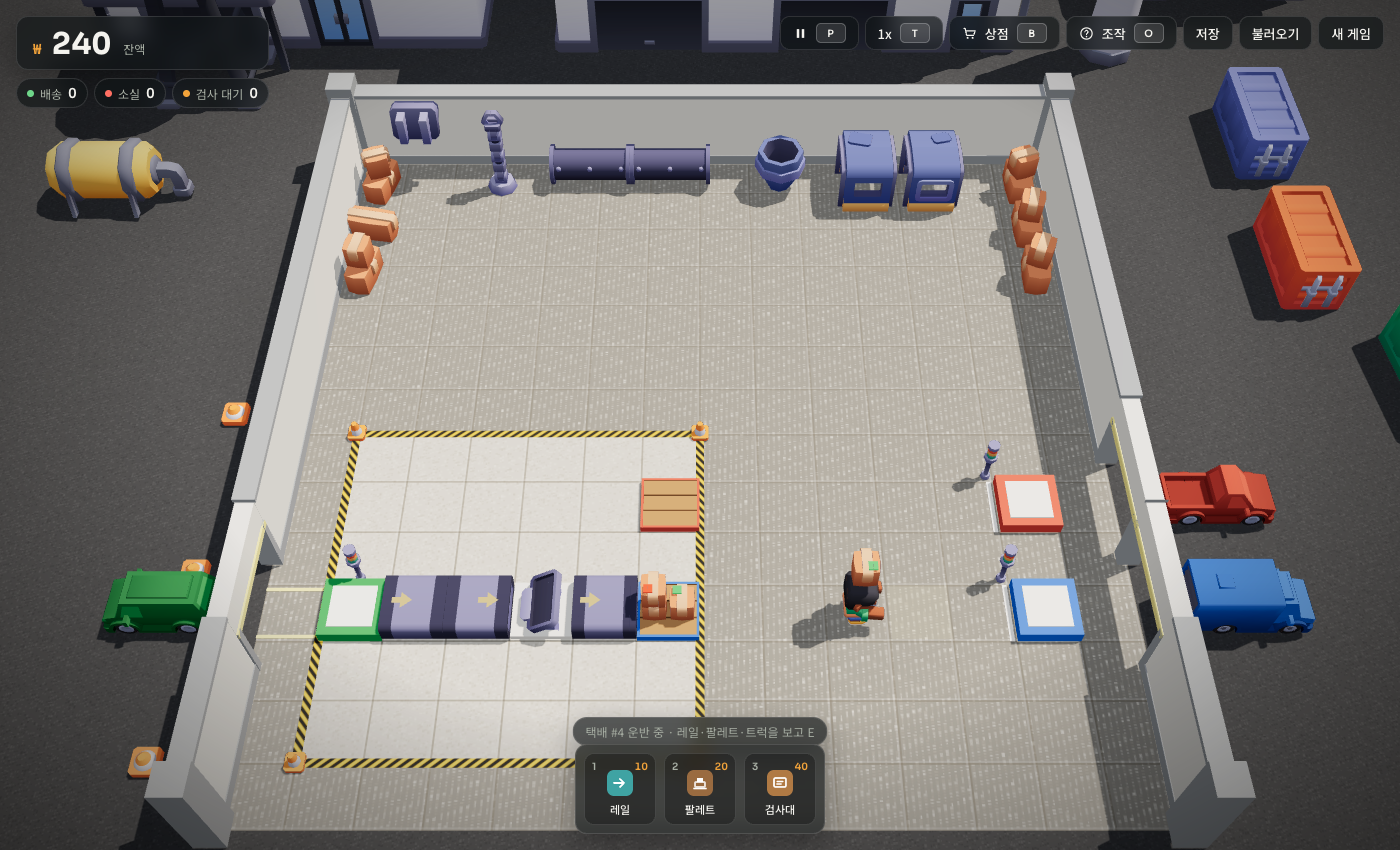
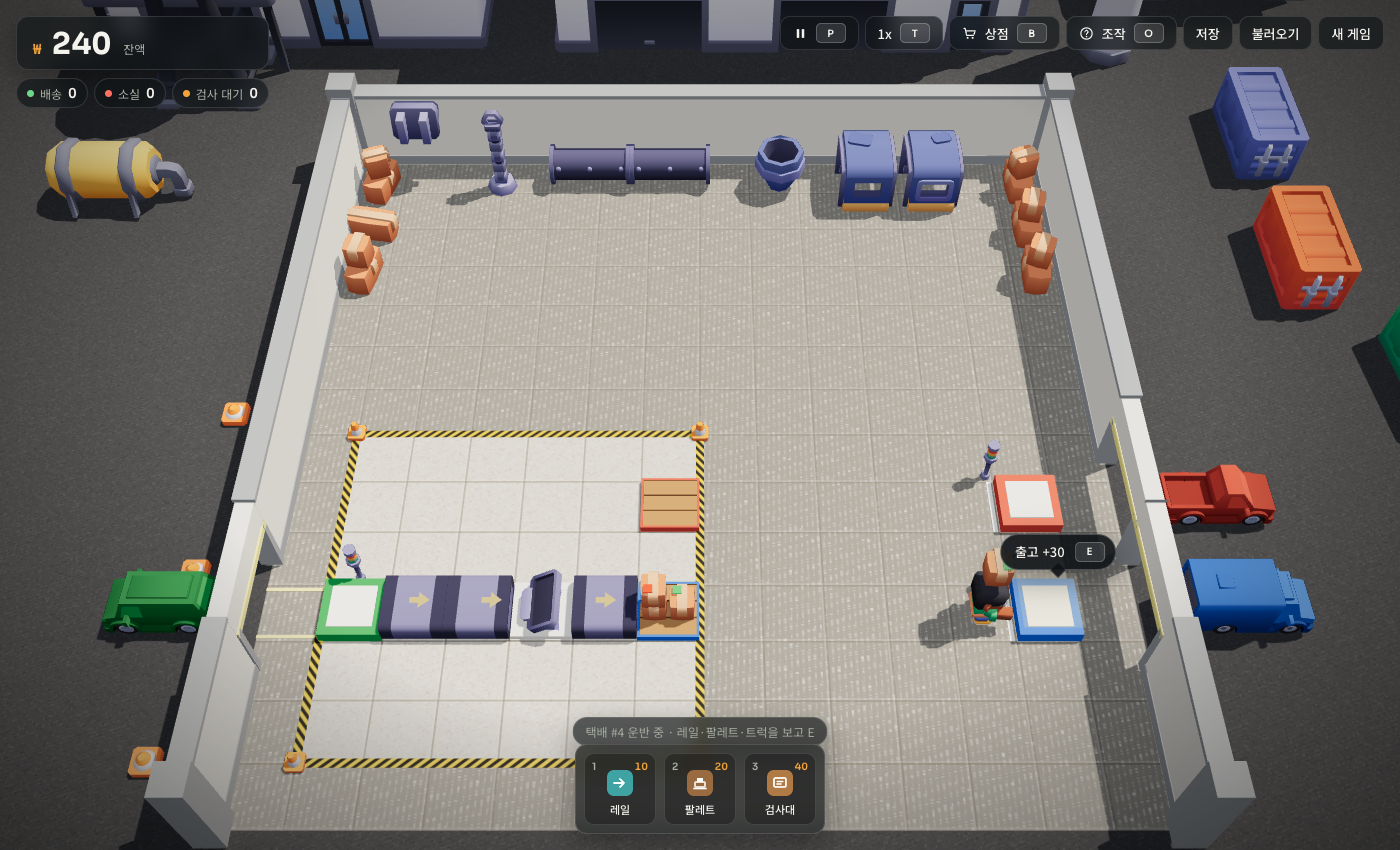
feat(prototype): show money at the point of action (price prompts, dock deltas, popups, balance flash)
scoreFor() is the single scoring rule used by deliver() and the dock prompt.
Demo worker now stands next to the outlet dock so the prompt reads 출고 +30.

Changed region(s): [[0.5529, 0.6118, 0.7986, 0.7647], [0.7679, 0.7035, 0.7986, 0.7341], [0.2764, 0.7035, 0.3071, 0.7341]]

diff --git a/docs/design/prototype/parcel-factory-3d.html b/docs/design/prototype/parcel-factory-3d.html
@@ -48,6 +48,13 @@
   .slot.on .d { display: inline-flex; background: var(--accent); color: var(--accent-fg); }
   .prompt { position: absolute; transform: translate(-50%, -100%); display: flex; gap: 10px; align-items: center; background: var(--panel-2); border: 1px solid var(--line-2); border-radius: 999px; padding: 7px 10px 7px 14px; font-size: 13px; font-weight: 500; white-space: nowrap; box-shadow: var(--shadow); }
   .prompt .pin { position: absolute; left: 50%; bottom: -7px; width: 10px; height: 10px; background: var(--panel-2); border-right: 1px solid var(--line-2); border-bottom: 1px solid var(--line-2); transform: translateX(-50%) rotate(45deg); }
+  .prompt.warn { border-color: var(--bad); color: var(--bad); }
+  .prompt.warn .pin { border-color: var(--bad); }
+  .money .val.up { animation: flashUp .4s ease-out; } .money .val.down { animation: flashDown .4s ease-out; }
+  @keyframes flashUp { from { color: var(--good); } to { color: var(--fg); } }
+  @keyframes flashDown { from { color: var(--bad); } to { color: var(--fg); } }
+  .pop { position: absolute; left: 0; top: 0; z-index: 5; pointer-events: none; font: 700 18px var(--font-num); font-variant-numeric: tabular-nums; text-shadow: 0 1px 3px rgba(0,0,0,0.85), 0 0 6px rgba(0,0,0,0.6); white-space: nowrap; will-change: transform, opacity; }
+  .pop.good { color: var(--good); } .pop.bad { color: var(--bad); }
   .status { position: absolute; left: 50%; transform: translateX(-50%); bottom: calc(104px + env(safe-area-inset-bottom, 0px)); font-size: 12px; color: var(--muted); padding: 5px 12px; border-radius: 999px; white-space: nowrap; }
   .toast { position: absolute; left: 50%; top: calc(18px + env(safe-area-inset-top, 0px)); transform: translateX(-50%); display: flex; align-items: center; gap: 10px; background: var(--panel-2); border: 1px solid var(--line-2); border-radius: 10px; padding: 9px 14px 9px 10px; font-size: 13px; box-shadow: var(--shadow); animation: drop .18s ease-out; }
   .toast .bar { width: 4px; height: 18px; border-radius: 2px; background: var(--info); }
@@ -139,7 +146,7 @@
       <div>레일 끝 <b>팔레트</b>에 택배가 최대 6개 쌓입니다. 팔레트에서 집어 동쪽 벽의 트럭까지 나르세요 — <b>정상은 파랑 출고 트럭</b>, <b>불량(거부)은 빨강 반품 트럭</b>.</div>
       <div>택배는 검사대(3)에서 E로 검사한 뒤 출고/반품하세요. 검사 없이 트럭에 넣으면 벌점입니다.</div>
       <div>검사대 위 택배는 검사 전까지 멈춥니다. 잠긴 구역도 걸어 다닐 수 있지만 설치는 산 부지에만 됩니다. 12×12까지 넓히면 레일을 트럭에 바로 붙일 수 있습니다.</div>
-      <div>입고 8초마다 1개(배송 5건마다 빨라져 최소 3초) · 배송 +15 · 해체 2초 후 설치비 80% 환불 · 더미가 있는 팔레트는 해체 불가</div>
+      <div>입고 8초마다 1개(배송 5건마다 빨라져 최소 3초) · 정상 출고 +30, 불량 반품 +10 · 해체 2초 후 설치비 80% 환불 · 더미가 있는 팔레트는 해체 불가</div>
       <div class="fileRow"><button class="btn" id="saveBtn2">저장</button><button class="btn" id="loadBtn2">불러오기</button><button class="btn" id="newBtn2">새 게임</button></div>
     </div>
     <div class="panel drawer" id="shop" hidden></div>
@@ -224,10 +231,10 @@
     g.cells[2][1] = cell('conveyor', 'E'); g.cells[2][2] = cell('conveyor', 'E'); g.cells[2][3] = cell('table', 'E'); g.cells[2][4] = cell('conveyor', 'E');
     const pkg = (inspected, bad) => ({ id: g.nextId++, x: 0, y: 0, progress: 0, heading: 'E', entry: 'E', bad, inspected, rejected: inspected && bad, label: makeLabel(bad) });
     g.cells[2][5].pile.push(pkg(true, false), pkg(true, false), pkg(true, true));
-    g.worker = { x: 8.0, y: 2.0, facing: 'E', carrying: pkg(true, false) }; g.money = 240; return g;
+    g.worker = { x: 10.0, y: 2.0, facing: 'E', carrying: pkg(true, false) }; g.money = 240; return g;
   }
   let S = location.hash === '#demo' ? demoLayout(newGame()) : newGame();
-  const UI = { tool: null, slot: -1, lastDir: {}, pending: null, inspect: null, toastUntil: 0, dirty: new Set(), rebuildAll: true, saved: null };
+  const UI = { tool: null, slot: -1, lastDir: {}, pending: null, inspect: null, toastUntil: 0, dirty: new Set(), rebuildAll: true, saved: null, fx: [] };
 
   function headingFor(c, incoming) {
     if (c.type !== 'splitter') return c.dir;
@@ -248,20 +255,26 @@
     const p = { id: S.nextId++, x, y, progress: 0, heading: h, entry: h, bad, inspected: false, rejected: false, label: makeLabel(bad) };
     c.occ = p.id; S.packages.push(p); return true;
   }
-  function deliver(p, dockType) {
-    let delta = 0, msg = '', kind = 'bad';
+  // 점수 규칙 한 곳: 도크 프롬프트(label)와 deliver()가 같은 값을 쓴다 (스펙 3.3, 9.3)
+  function scoreFor(p, dockType) {
+    const o = (delta, msg, label, success) => ({ delta, msg, label, kind: success ? 'good' : 'bad', success });
     if (dockType === 'outlet') {
-      if (!p.inspected) { delta = -10; msg = '검사대를 거치지 않은 택배 · 출고 −10'; }
-      else if (p.rejected) { delta = -10; msg = '거부 택배를 출고 −10'; }
-      else if (p.bad) { delta = -20; msg = '불량을 승인해 출고 −20'; }
-      else { delta = 15; S.delivered++; msg = '정상 출고 +15'; kind = 'good'; }
-    } else {
-      if (!p.inspected) { delta = -5; msg = '검사대를 거치지 않은 택배 · 반품 −5'; }
-      else if (p.rejected && p.bad) { delta = 5; S.delivered++; msg = '불량 반품 +5'; kind = 'good'; }
-      else if (!p.rejected) { delta = -5; msg = '승인 택배를 반품 −5'; }
-      else { delta = -5; msg = '정상 택배를 반품 −5'; }
+      if (!p.inspected) return o(-10, '검사대를 거치지 않은 택배 · 출고 −10', '출고 (미검사 −10)', false);
+      if (p.rejected) return o(-10, '거부 택배를 출고 −10', '출고 (거부 −10)', false);
+      if (p.bad) return o(-30, '불량을 승인해 출고 −30', '출고 (불량 −30)', false);
+      return o(30, '정상 출고 +30', '출고 +30', true);
     }
-    S.money += delta; toast(msg, kind);
+    if (!p.inspected) return o(-5, '검사대를 거치지 않은 택배 · 반품 −5', '반품 (미검사 −5)', false);
+    if (p.rejected && p.bad) return o(10, '불량 반품 +10', '반품 +10', true);
+    if (!p.rejected) return o(-5, '승인 택배를 반품 −5', '반품 (승인 −5)', false);
+    return o(-5, '정상 택배를 반품 −5', '반품 (정상 −5)', false);
+  }
+  // 돈 팝업 이벤트: 렌더 루프가 비운다 (월드 칸 좌표)
+  function pushFx(x, y, delta) { if (UI.fx.length < 32) UI.fx.push({ x, y, delta }); }
+  function deliver(p, dockType, x, y) {
+    const r = scoreFor(p, dockType);
+    if (r.success) S.delivered++;
+    S.money += r.delta; toast(r.msg, r.kind); pushFx(x, y, r.delta);
   }
   function remove(i, delivered) { const p = S.packages[i]; S.cells[p.y][p.x].occ = -1; S.packages.splice(i, 1); if (!delivered) S.lost++; }
   function tick(dt) {
@@ -277,7 +290,7 @@
       const nx = p.x + DX[p.heading], ny = p.y + DY[p.heading];
       if (!inBounds(nx, ny)) { remove(i, false); i--; toast('택배가 레일 밖으로 떨어졌습니다', 'bad'); continue; }
       const next = S.cells[ny][nx];
-      if (isDock(next.type)) { deliver(p, next.type); remove(i, true); i--; continue; }
+      if (isDock(next.type)) { deliver(p, next.type, nx, ny); remove(i, true); i--; continue; }
       if (next.type === 'pallet') { // 흐름에서 빠져 더미에 쌓인다(검사 상태 유지). 가득 차거나 해체 중이면 대기
         if (next.demolishing || next.pile.length >= PALLET_CAP) continue;
         c.occ = -1; S.packages.splice(i, 1); i--; p.progress = 0; next.pile.push(p); continue;
@@ -292,7 +305,7 @@
       c.remain -= d; if (c.remain > 1e-4) continue;
       const r = Math.round(COST[c.type] * 0.8);
       for (let i = S.packages.length - 1; i >= 0; i--) if (S.packages[i].x === x && S.packages[i].y === y) remove(i, false);
-      S.cells[y][x] = cell('empty'); S.money += r; UI.dirty.add(x + ',' + y); toast('해체 완료 · 환불 +' + r, 'good');
+      S.cells[y][x] = cell('empty'); S.money += r; pushFx(x, y, r); UI.dirty.add(x + ',' + y); toast('해체 완료 · 환불 +' + r, 'good');
     }
   }
   const WALK_SPEED = 3.4, WORKER_R = 0.28; // 칸/초, 충돌 반지름(칸)
@@ -335,14 +348,14 @@
     const w = S.worker, f = facingTile(), r = preview();
     const fc = inBounds(f.x, f.y) ? S.cells[f.y][f.x] : null;
     switch (r) {
-      case 'deliver': deliver(w.carrying, fc.type); w.carrying = null; break;
+      case 'deliver': deliver(w.carrying, fc.type, f.x, f.y); w.carrying = null; break;
       case 'put': { const p = w.carrying; p.x = f.x; p.y = f.y; p.progress = 0; p.heading = headingFor(fc, fc.dir); p.entry = p.heading; fc.occ = p.id; S.packages.push(p); w.carrying = null; if (fc.type === 'scanner' && !p.inspected) { p.inspected = true; p.rejected = p.bad; } break; }
       case 'inspect': UI.inspect = S.packages[packageAt(f.x, f.y)]; showInspect(); break;
       case 'pick': { const pi = packageAt(f.x, f.y); const p = S.packages[pi]; S.packages.splice(pi, 1); fc.occ = -1; w.carrying = p; break; }
       case 'palletpick': w.carrying = fc.pile.pop(); break;
       case 'palletput': { const p = w.carrying; p.progress = 0; fc.pile.push(p); w.carrying = null; break; }
       case 'palletfull': toast('팔레트가 가득 찼습니다'); break;
-      case 'place': S.money -= COST[UI.tool.type]; S.cells[f.y][f.x] = UI.tool.type === 'pallet' ? palletCell(KIND_OF_DIR[UI.tool.dir]) : cell(UI.tool.type, UI.tool.dir); UI.dirty.add(f.x + ',' + f.y); break;
+      case 'place': S.money -= COST[UI.tool.type]; pushFx(f.x, f.y, -COST[UI.tool.type]); S.cells[f.y][f.x] = UI.tool.type === 'pallet' ? palletCell(KIND_OF_DIR[UI.tool.dir]) : cell(UI.tool.type, UI.tool.dir); UI.dirty.add(f.x + ',' + f.y); break;
       case 'nofloor': toast('바닥이 없는 곳입니다'); break;
       case 'cannotput': toast('여기에는 내려놓을 수 없습니다'); break;
       case 'notool': toast('도구를 고르세요 (1~6)'); break;
@@ -668,6 +681,24 @@
   // ---------------- 루프 ----------------
   function resize() { const w = canvas.clientWidth, h = canvas.clientHeight; if (canvas.width !== Math.floor(w * renderer.getPixelRatio()) || canvas.height !== Math.floor(h * renderer.getPixelRatio())) { renderer.setSize(w, h, false); camera.aspect = w / h; camera.updateProjectionMatrix(); frameLot(false); } }
   const tmpV = new THREE.Vector3();
+  // 돈 팝업: 풀 8개, 0.9초 동안 40px 떠오르며 사라진다. 월드 위치를 매 프레임 투영한다.
+  const POP_MAX = 8, POP_MS = 900, POP_RISE = 40, pops = [];
+  for (let i = 0; i < POP_MAX; i++) { const el = document.createElement('div'); el.className = 'pop'; el.hidden = true; $('app').appendChild(el); pops.push({ el, t0: 0, x: 0, y: 0, live: false }); }
+  let lastMoney = null;
+  function spawnPop(fx, now) {
+    const pp = pops.find(q => !q.live) || pops.reduce((a, b) => (a.t0 <= b.t0 ? a : b)); // 가득 차면 가장 오래된 것을 재사용
+    pp.live = true; pp.t0 = now; pp.x = fx.x; pp.y = fx.y; pp.el.textContent = (fx.delta > 0 ? '+' : '−') + Math.abs(fx.delta); pp.el.className = 'pop ' + (fx.delta > 0 ? 'good' : 'bad'); pp.el.hidden = false;
+  }
+  function updateFx(now) {
+    while (UI.fx.length) spawnPop(UI.fx.shift(), now);
+    for (const pp of pops) {
+      if (!pp.live) continue;
+      const k = (now - pp.t0) / POP_MS; if (k >= 1) { pp.live = false; pp.el.hidden = true; continue; }
+      tmpV.set(W(pp.x), 0.95, Z(pp.y)).project(camera);
+      const sx = (tmpV.x + 1) / 2 * canvas.clientWidth, sy = (1 - tmpV.y) / 2 * canvas.clientHeight - 14 - k * POP_RISE;
+      pp.el.style.transform = 'translate(' + sx.toFixed(1) + 'px,' + sy.toFixed(1) + 'px) translate(-50%,-100%)'; pp.el.style.opacity = (1 - k * k).toFixed(3);
+    }
+  }
   let acc = 0, last = performance.now(), bob = 0;
   function frame(now) {
     requestAnimationFrame(frame);
@@ -703,10 +734,12 @@
     cursor.visible = !!fc;
     if (cursor.visible) { const h = fc.type === 'pallet' ? 0.13 + Math.ceil(fc.pile.length / 2) * 0.4 : (isBuilding(fc) || isDock(fc.type) || fc.type === 'inlet') ? surface(fc.type) : 0; cursor.position.set(W(f.x), 0.03 + h, Z(f.y)); cursor.material.opacity = 0.32 + 0.12 * Math.sin(now / 170); }
     const r = preview(); let label = null;
-    if (r === 'pick') label = '집기'; else if (r === 'palletpick') label = '집기 (' + fc.pile.length + ')'; else if (r === 'palletput') label = '놓기'; else if (r === 'palletfull') label = '가득 참'; else if (r === 'put') label = '놓기'; else if (r === 'deliver') label = (fc.type === 'outlet' ? '출고' : '반품') + (S.worker.carrying && !S.worker.carrying.inspected ? (fc.type === 'outlet' ? ' (미검사 −10)' : ' (미검사 −5)') : ''); else if (r === 'inspect') label = '검사'; else if (r === 'place') label = NAMES[UI.tool.type] + ' 설치';
-    const pr = $('prompt'); pr.hidden = !label;
+    if (r === 'pick') label = '집기'; else if (r === 'palletpick') label = '집기 (' + fc.pile.length + ')'; else if (r === 'palletput') label = '놓기'; else if (r === 'palletfull') label = '가득 참'; else if (r === 'put') label = '놓기'; else if (r === 'deliver') label = scoreFor(S.worker.carrying, fc.type).label; else if (r === 'inspect') label = '검사'; else if (r === 'place' || r === 'nomoney') { const nm = UI.tool.type === 'pallet' ? KIND_LABEL[KIND_OF_DIR[UI.tool.dir]] + ' 팔레트' : NAMES[UI.tool.type]; label = nm + ' 설치 · ₩' + COST[UI.tool.type] + (r === 'nomoney' ? ' (잔액 부족)' : ''); }
+    const pr = $('prompt'); pr.hidden = !label; pr.classList.toggle('warn', r === 'nomoney');
     if (label) { $('promptText').textContent = label; tmpV.set(W(f.x), 0.95 + (fc && fc.type === 'pallet' ? Math.ceil(fc.pile.length / 2) * 0.4 : fc && isBuilding(fc) ? 0.2 : 0), Z(f.y)).project(camera); pr.style.left = ((tmpV.x + 1) / 2 * canvas.clientWidth) + 'px'; pr.style.top = ((1 - tmpV.y) / 2 * canvas.clientHeight - 14) + 'px'; }
     for (let y = 0; y < 12; y++) for (let x = 0; x < 12; x++) { const c = S.cells[y][x], key = x + ',' + y; let bar = demoBars.get(key); if (c.demolishing) { if (!bar) { bar = box(0.8, 0.05, 0.12, lit(0xffd36a, { emissive: 0xffb84a, emissiveIntensity: 0.8 }), W(x), 1.1, Z(y)); bar.castShadow = false; scene.add(bar); demoBars.set(key, bar); } bar.scale.x = Math.max(0.02, 1 - c.remain / 2); } else if (bar) { scene.remove(bar); demoBars.delete(key); } }
+    updateFx(now);
+    if (S.money !== lastMoney) { const mv = $('money'); if (lastMoney !== null) { mv.classList.remove('up', 'down'); void mv.offsetWidth; mv.classList.add(S.money > lastMoney ? 'up' : 'down'); } lastMoney = S.money; }
     $('money').textContent = S.money; $('delivered').textContent = S.delivered; $('lost').textContent = S.lost; $('waiting').textContent = S.packages.filter(p => !p.inspected && S.cells[p.y][p.x].type === 'table').length;
     $('pauseBtn').classList.toggle('on', S.paused); $('speedLbl').textContent = S.speed + 'x'; $('speedBtn').classList.toggle('on', S.speed === 2);
     $('workerText').textContent = w.carrying ? ('택배 #' + w.carrying.id + ' 운반 중 · 레일·팔레트·트럭을 보고 E') : (UI.tool ? NAMES[UI.tool.type] + ' ' + dirLabel(UI.tool.type, UI.tool.dir) + ' · E로 설치 · R로 ' + (UI.tool.type === 'pallet' ? '색' : '방향') : '빈손 · 1~6으로 도구를 고르세요');
